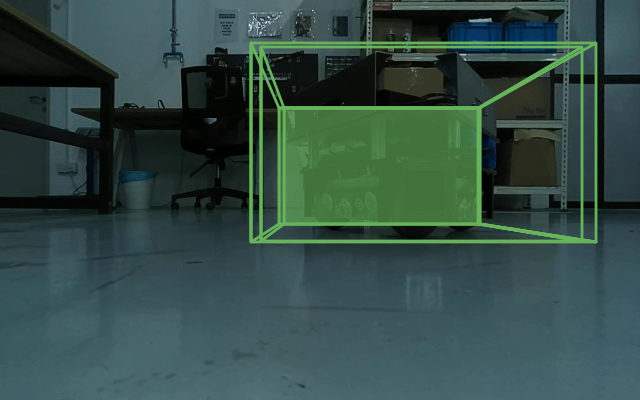
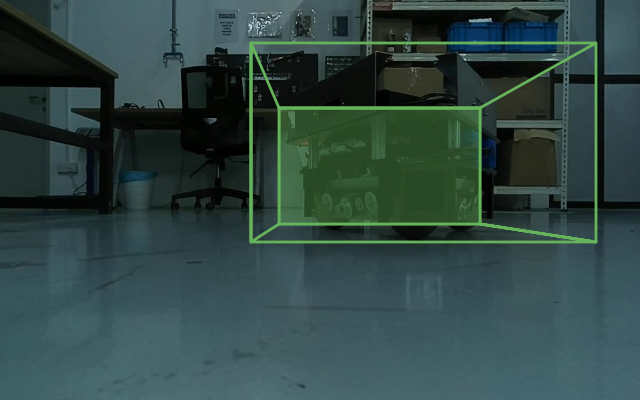
add draw_bboxes function

diff --git a/mmdeploy/codebase/mmdet3d/deploy/monocular_detection.py b/mmdeploy/codebase/mmdet3d/deploy/monocular_detection.py
@@ -14,7 +14,7 @@ from mmcv.image import tensor2imgs
 from mmengine.dataset import pseudo_collate, Compose
 from mmengine.model import BaseDataPreprocessor
 
-from mmdet3d.structures import Box3DMode, get_box_type
+from mmdet3d.structures import Box3DMode, get_box_type, Det3DDataSample
 from mmdet3d.models import (Base3DDetector, Base3DSegmentor,
                             SingleStageMono3DDetector)
 from torch.utils.data import Dataset
@@ -166,10 +166,43 @@ class MonocularDetection(BaseTask):
 
         return data, tuple([inputs] + cam2img + cam2img_inverse)
 
+    def draw_bboxes(
+        self, 
+        image: Union[str, np.ndarray],
+        result: Det3DDataSample,
+    ):
+        cfg = self.model_cfg
+        visualizer = super().get_visualizer(name=None, save_dir=None)  
+        visualizer.dataset_meta = _get_dataset_metainfo(cfg)
+        palette = visualizer.dataset_meta.get('palette', None)
+
+        if isinstance(image, str):
+            collate_data, inputs = self.create_input(image)
+            img = collate_data['inputs']['img'][0]
+            data_input = dict(img=img)
+        else:
+            data_input = dict(img=image)
+        if 'pred_instances_3d' in result:
+            pred_instances_3d = result.pred_instances_3d
+            pred_data_3d = visualizer._draw_instances_3d(
+                data_input,
+                pred_instances_3d,
+                result.metainfo,
+                vis_task='mono_det',
+                show_pcd_rgb=False,
+                palette=palette)
+            if pred_data_3d is not None:
+                drawn_img_3d = pred_data_3d['img']
+                return drawn_img_3d
+            else:
+                return data_input['img']
+        else:
+            return data_input['img']
+
+
     def visualize(
         self,
         image: Union[str, np.ndarray],
-        model: torch.nn.Module,
         result: list,
         output_file: str,
         window_name: str = '',
@@ -180,7 +213,6 @@ class MonocularDetection(BaseTask):
 
         Args:
             image (Union[str, np.ndarray]): pcd file path
-            model (torch.nn.Module): input pytorch model
             result (list): output bbox, score and type
             output_file (str): the directory to save output
             window_name (str, optional): display window name
@@ -188,7 +220,6 @@ class MonocularDetection(BaseTask):
                 Defaults to False.
             draw_gt (bool, optional): show gt or not. Defaults to False.
         """
-        import mmcv
 
         cfg = self.model_cfg
         visualizer = super().get_visualizer(window_name, output_file)

diff --git a/test_det3d.py b/test_det3d.py
@@ -42,7 +42,6 @@ if isinstance(result, dict):
 # visualize results
 task_processor.visualize(
     image=image,
-    model=model,
     result=result,
     window_name='visualize',
     output_file='output_detection.png',
